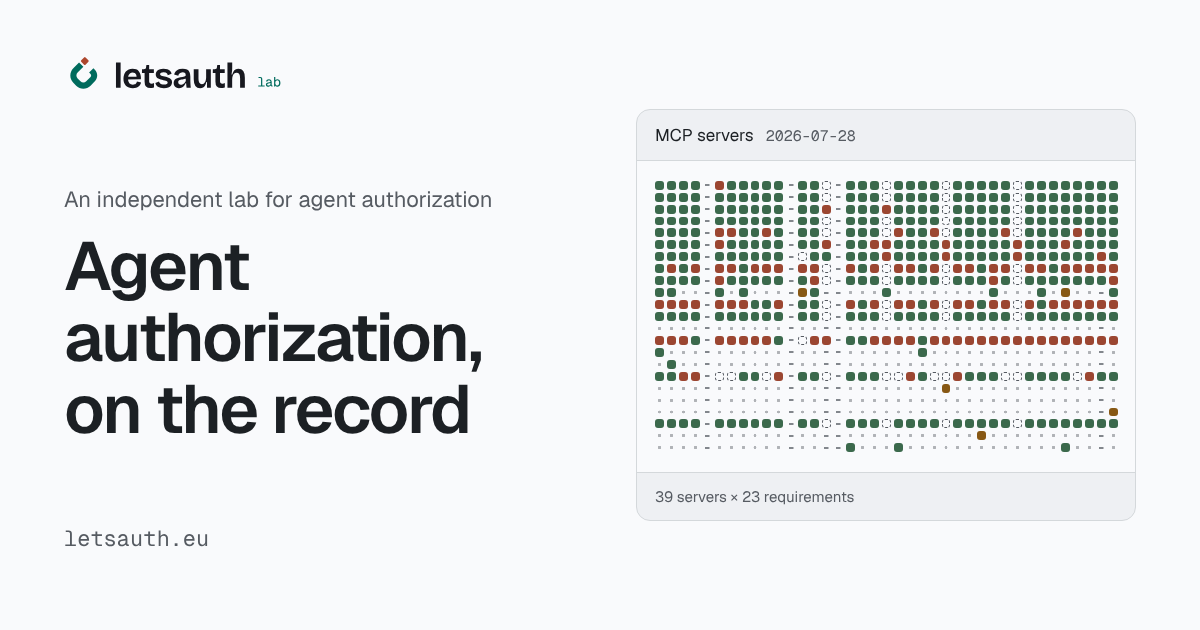
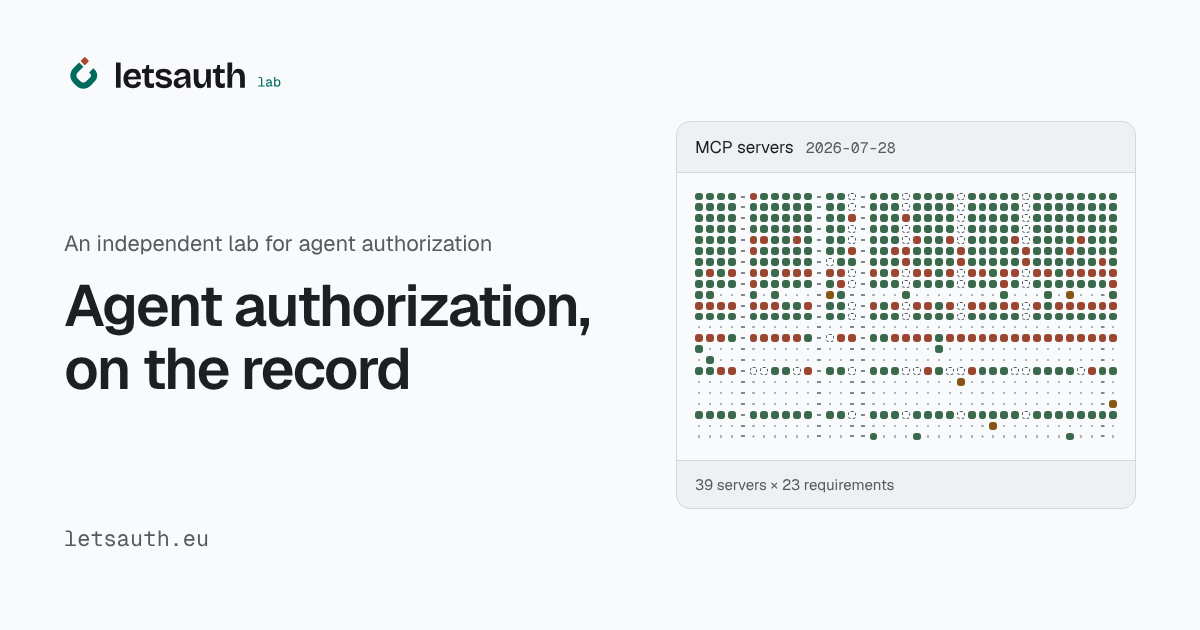
Social card: headline on two lines, as on the home page
Claude-Session: https://claude.ai/code/session_0168GJmSr2Ca45oudT789Lm9

diff --git a/scripts/generate-brand-assets.ts b/scripts/generate-brand-assets.ts
@@ -61,12 +61,12 @@ try {
     @font-face{font-family:Mono;src:url('${fontUrl("geist-mono")}');font-weight:100 900}
     *{box-sizing:border-box}
     body{margin:0;width:1200px;height:630px;padding:56px 64px;background:var(--ground);
-      color:var(--ink);font-family:Display;display:grid;grid-template-columns:1fr 500px;
-      gap:56px;align-items:center}
+      color:var(--ink);font-family:Display;display:grid;grid-template-columns:1fr 460px;
+      gap:48px;align-items:center}
     .logo{position:absolute;top:56px;left:64px;width:220px;height:auto}
     .eyebrow{margin:0 0 18px;font-size:22px;color:var(--ink-2)}
-    h1{margin:0;font-weight:600;font-size:68px;line-height:1.05;letter-spacing:-0.03em;
-      text-wrap:balance}
+    h1{margin:0;font-weight:600;font-size:58px;line-height:1.08;letter-spacing:-0.03em;
+      white-space:nowrap}
     .site{position:absolute;bottom:56px;left:64px;font:22px Mono;color:var(--ink-2)}
     .plate{background:var(--ground-2);border:1px solid var(--rule);border-radius:14px;
       overflow:hidden}
@@ -85,7 +85,7 @@ try {
     <img class="logo" src="${svgUrl(wordmark)}" alt="letsauth">
     <div>
       <p class="eyebrow">An independent lab for agent authorization</p>
-      <h1>Agent authorization, on the record</h1>
+      <h1>Agent authorization,<br>on the record</h1>
     </div>
     <div class="plate">
       <div class="head">MCP servers <span>${revision.id}</span></div>
